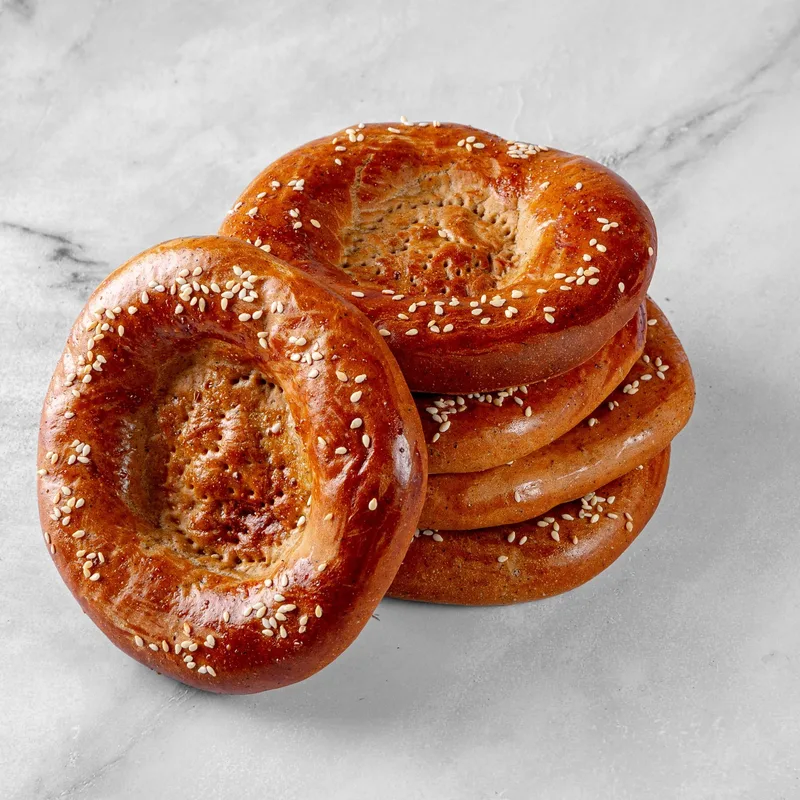
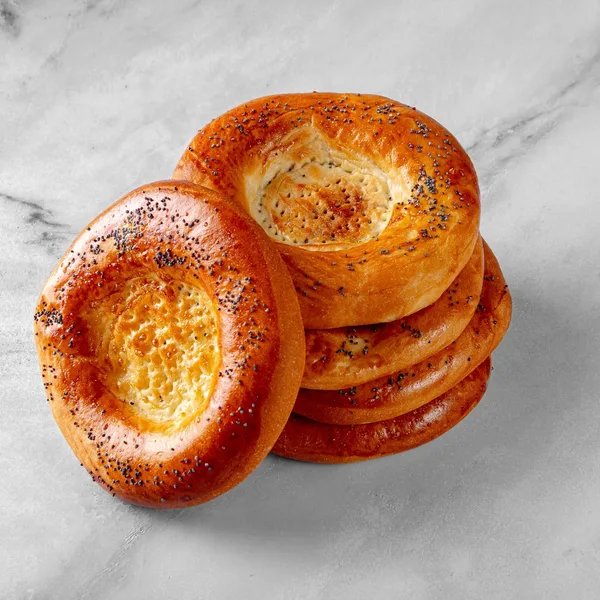
Update flatbread photos and add cache-busting overrides for bread_flatbread

diff --git a/app.js b/app.js
@@ -1402,6 +1402,8 @@ const LOCAL_CATALOG_IMAGE_OVERRIDES = new Map([
   ["pastry_rogaliki", "images/pastry_rogaliki.webp?v=20260724d"],
   ["bread_pancakes_meat", "images/bread_pancakes_meat.webp?v=20260728_v5"],
   ["bread_pancakes_plain", "images/bread_pancakes_plain.webp?v=20260728_v5"],
+  ["bread_flatbread", "images/bread_flatbread.webp?v=20260729_v1"],
+  ["bread_rye_flatbread", "images/bread_rye_flatbread.webp?v=20260729_v1"],
   ["dessert_napoleon", "images/dessert_napoleon.webp?v=20260728_v5"],
   ["dessert_ekler", "images/dessert_ekler.webp?v=20260728_v5"],
   ["dessert_muraveynik", "images/dessert_muraveynik.webp?v=20260728_v5"],

diff --git a/update_ready_photos.js b/update_ready_photos.js
@@ -42,7 +42,7 @@ const MAP_OVERRIDE = {
   'сигара борек': ['Сигара борек.webp'],
   'слоёное тесто': ['Слоёное тесто.webp'],
   'сметанник': ['pie_smetannik.webp'],
-  'тандыр лепёшки': ['bread_tandoor_flatbread.webp'],
+  'тандыр лепёшки': ['bread_flatbread.webp'],
   'тары чизкейк': ['Торт Тары Чизкейк.webp', 'Тары Чизкейк (половина).webp'],
   'тефтели с мясом': ['Тефтели.webp'],
   'торт вупи пай': ['Торт вупипай.webp', 'berry_milk_girl.webp'],

diff --git a/index.html b/index.html
@@ -1993,6 +1993,6 @@
   <!-- Leaflet loaded lazily from app.js when contacts section approaches -->
   <!-- JavaScript Application -->
   <script defer src="i18n.js?v=7.1"></script>
-  <script defer src="app.js?v=12.0"></script>
+  <script defer src="app.js?v=12.1"></script>
 </body>
 </html>
